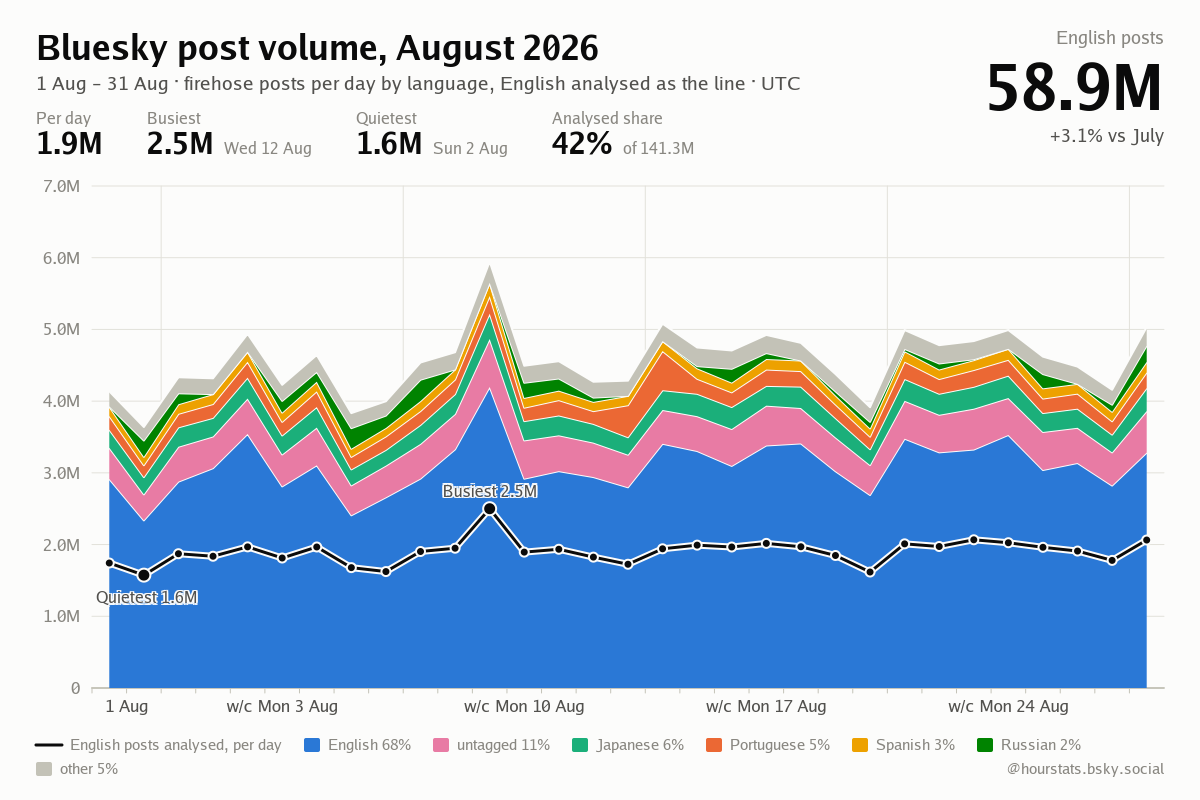
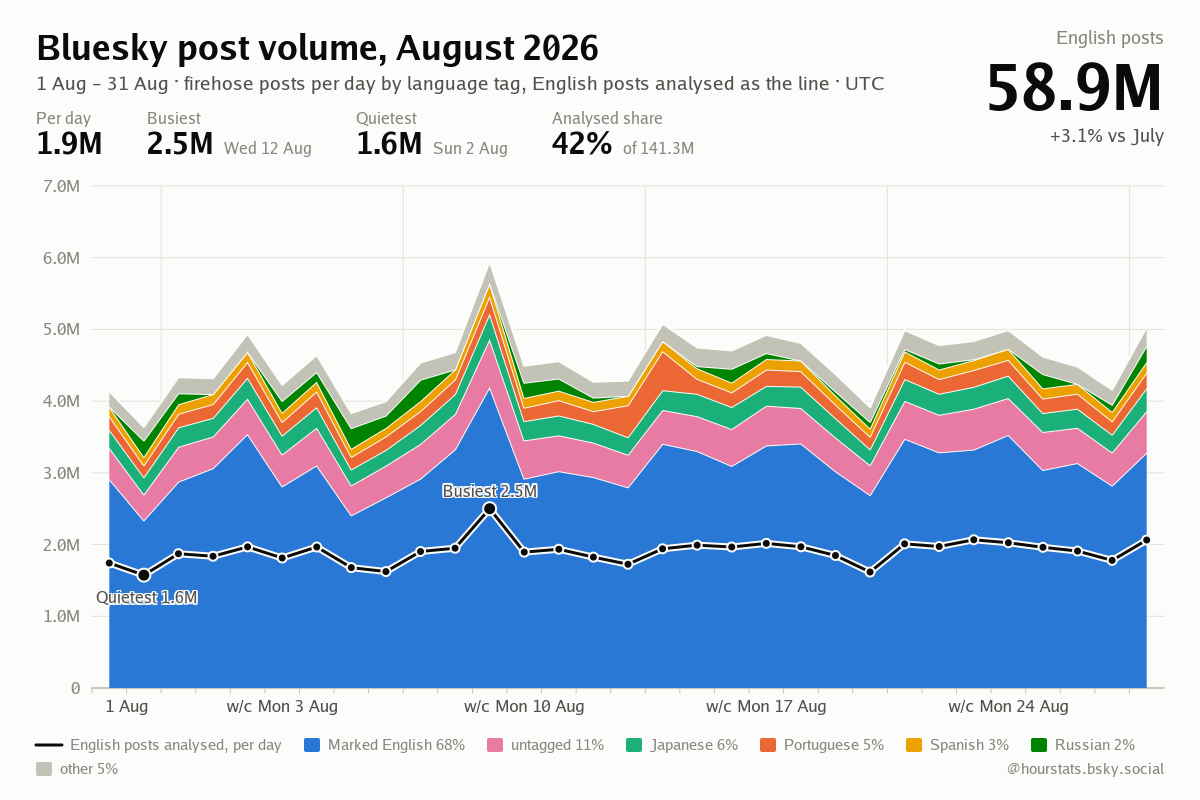
chore(volume): label the English band as posts marked English
The stacked band counts posts carrying an English language tag, which is
wider than the English posts analysed (the line), so the legend, subtitle
and alt text now say so.

Changed region(s): [[0.2775, 0.9062, 0.9558, 0.9375], [0.4008, 0.0938, 0.74, 0.125]]

diff --git a/internal/sparkline/languages.go b/internal/sparkline/languages.go
@@ -12,10 +12,12 @@ import (
 // into "other". Six is the categorical palette's validated depth.
 const MaxLanguageSeries = 6
 
-// languageNames maps primary subtags to display names. Unknown codes fall
-// back to the upper-cased code.
+// languageNames maps primary subtags to display names. English is labelled
+// "Marked English" because the band counts posts carrying an English
+// language tag, which is wider than the English posts the bot analyses.
+// Unknown codes fall back to the upper-cased code.
 var languageNames = map[string]string{
-	"en": "English", "pt": "Portuguese", "ja": "Japanese", "es": "Spanish", "de": "German",
+	"en": "Marked English", "pt": "Portuguese", "ja": "Japanese", "es": "Spanish", "de": "German",
 	"fr": "French", "ko": "Korean", "it": "Italian", "nl": "Dutch", "ru": "Russian",
 	"zh": "Chinese", "tr": "Turkish", "pl": "Polish", "sv": "Swedish", "id": "Indonesian",
 	"th": "Thai", "ar": "Arabic", "fa": "Persian", "uk": "Ukrainian", "vi": "Vietnamese",

diff --git a/internal/sparkline/monthly_volume_generator.go b/internal/sparkline/monthly_volume_generator.go
@@ -141,7 +141,7 @@ func (g *MonthlyVolumeGenerator) GenerateMonthlyVolumeChart(days []DailyVolumePo
 	}
 	subtitle := fmt.Sprintf("%s – %s · English posts analysed per day · UTC", first.Format("2 Jan"), last.Format("2 Jan"))
 	if stacked {
-		subtitle = fmt.Sprintf("%s – %s · firehose posts per day by language, English analysed as the line · UTC", first.Format("2 Jan"), last.Format("2 Jan"))
+		subtitle = fmt.Sprintf("%s – %s · firehose posts per day by language tag, English posts analysed as the line · UTC", first.Format("2 Jan"), last.Format("2 Jan"))
 	}
 	spec := seriesChartSpec{
 		Title:     "Bluesky post volume, " + meta.MonthLabel,

diff --git a/internal/sparkline/languages_test.go b/internal/sparkline/languages_test.go
@@ -43,7 +43,7 @@ func TestLanguageBreakdown(t *testing.T) {
 		series[3].Color != languagePalette[5] || series[4].Color != languagePalette[3] || series[5].Color != languagePalette[4] || series[6].Color != languageOther {
 		t.Errorf("colour assignment: %v", series)
 	}
-	if series[2].Name != "Japanese" || series[3].Name != "untagged" {
+	if series[0].Name != "Marked English" || series[2].Name != "Japanese" || series[3].Name != "untagged" {
 		t.Errorf("names: %s %s", series[2].Name, series[3].Name)
 	}
 	other := series[6].Total

diff --git a/cmd/hourstats/monthly.go b/cmd/hourstats/monthly.go
@@ -233,7 +233,7 @@ func buildMonthlyVolumeAltText(r monthlyReport) string {
 		text += fmt.Sprintf(" English posts were %.0f%% of the %s firehose.", float64(total)/float64(fh)*100, compactCount(fh))
 	}
 	if langs := r.languageLine(); langs != "" {
-		text += " The firehose is stacked by language behind the line; the largest after English were " + langs + "."
+		text += " The firehose is stacked by language tag behind the line; the largest after posts marked as English were " + langs + "."
 	}
 	return text
 }

diff --git a/cmd/hourstats/language_test.go b/cmd/hourstats/language_test.go
@@ -45,7 +45,7 @@ func TestMonthlyLanguageLine(t *testing.T) {
 		t.Errorf("volume text %d runes over limit", n)
 	}
 	alt := buildMonthlyVolumeAltText(r)
-	if !strings.Contains(alt, "stacked area") || !strings.Contains(alt, "largest after English were Portuguese") {
+	if !strings.Contains(alt, "stacked area") || !strings.Contains(alt, "largest after posts marked as English were Portuguese") {
 		t.Errorf("alt: %s", alt)
 	}
 	pts := toDailyVolumePoints(r)

diff --git a/docs/mockups/periodic-reports/README.md b/docs/mockups/periodic-reports/README.md
@@ -115,8 +115,9 @@ chart degrades to for days where firehose totals are not tracked.
 
 When every day of the month has a language split (`language_daily`, collected
 from the firehose since the language-volume change), the firehose line becomes
-a stacked area: English at the bottom, then the largest languages up to five,
-then "other". Untagged posts get their own band when large enough. Colours are
+a stacked area: posts marked as English at the bottom (labelled "Marked
+English", since that is wider than the English posts analysed), then the
+largest languages up to five, then "other". Untagged posts get their own band when large enough. Colours are
 pinned per language (English blue, Portuguese orange, Japanese aqua, Spanish
 yellow, German magenta) so a language keeps its colour month to month; the
 English-analysed line is drawn in ink with a surface halo over the fills.
